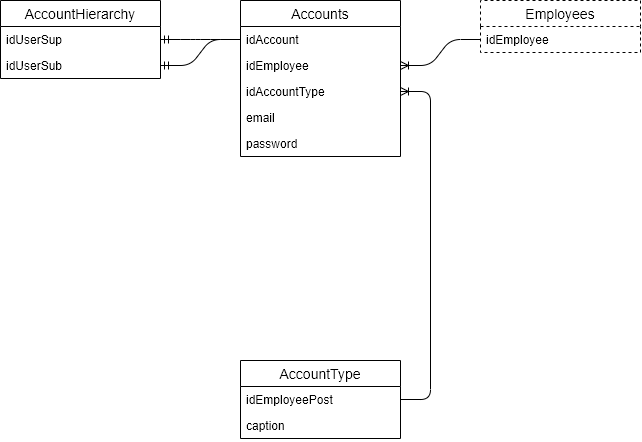
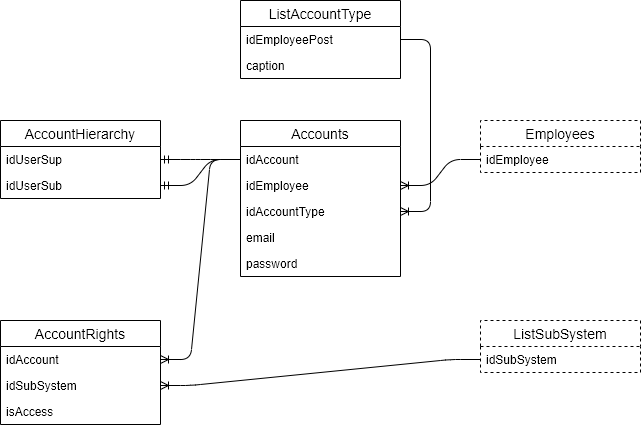
Описание подсистемы пользователей

diff --git a/documentation/4. Эскизный проект/Описание подсистем/Служебные/Подсистема_пользователей.md b/documentation/4. Эскизный проект/Описание подсистем/Служебные/Подсистема_пользователей.md
@@ -19,7 +19,7 @@
 К основным данным относятся:
 
 - аккаунты пользователей (Accounts)
-- типы пользователей (AccountType)
+- типы пользователей (ListAccountType)
 - иерархия пользователей (AccountHierarchy)
 - права доступа (AccountRights)
 
